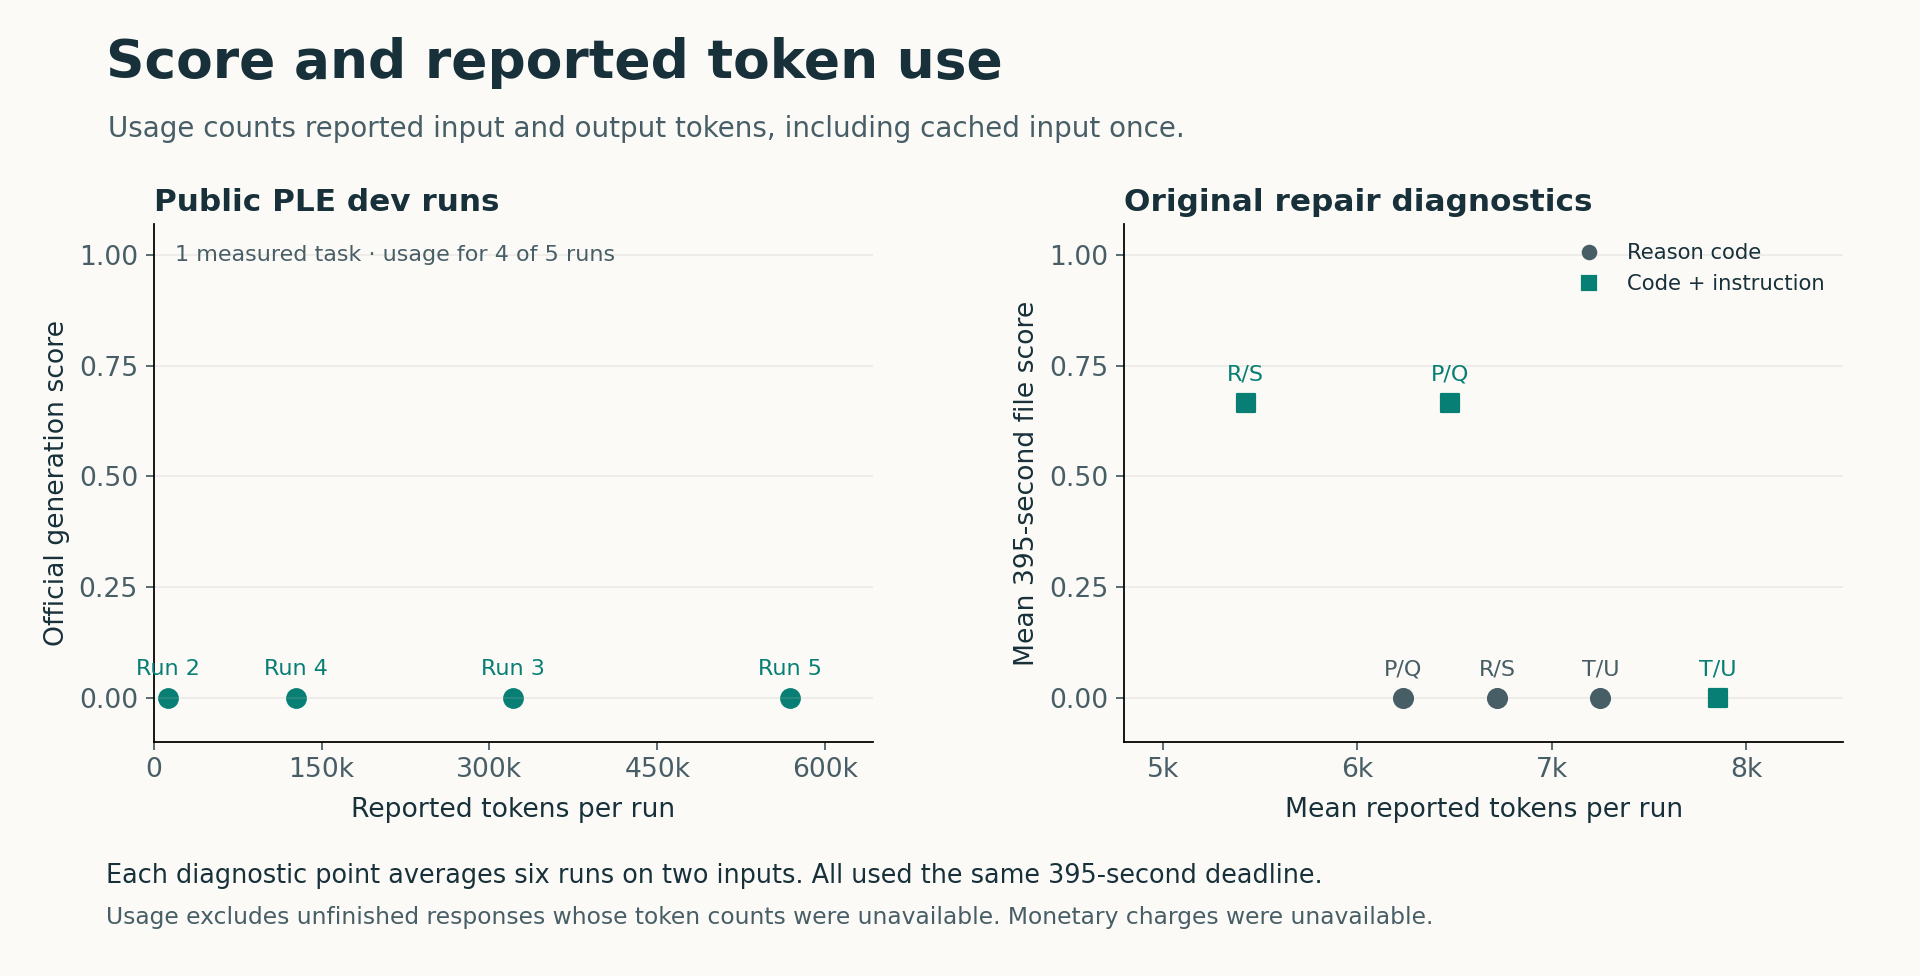
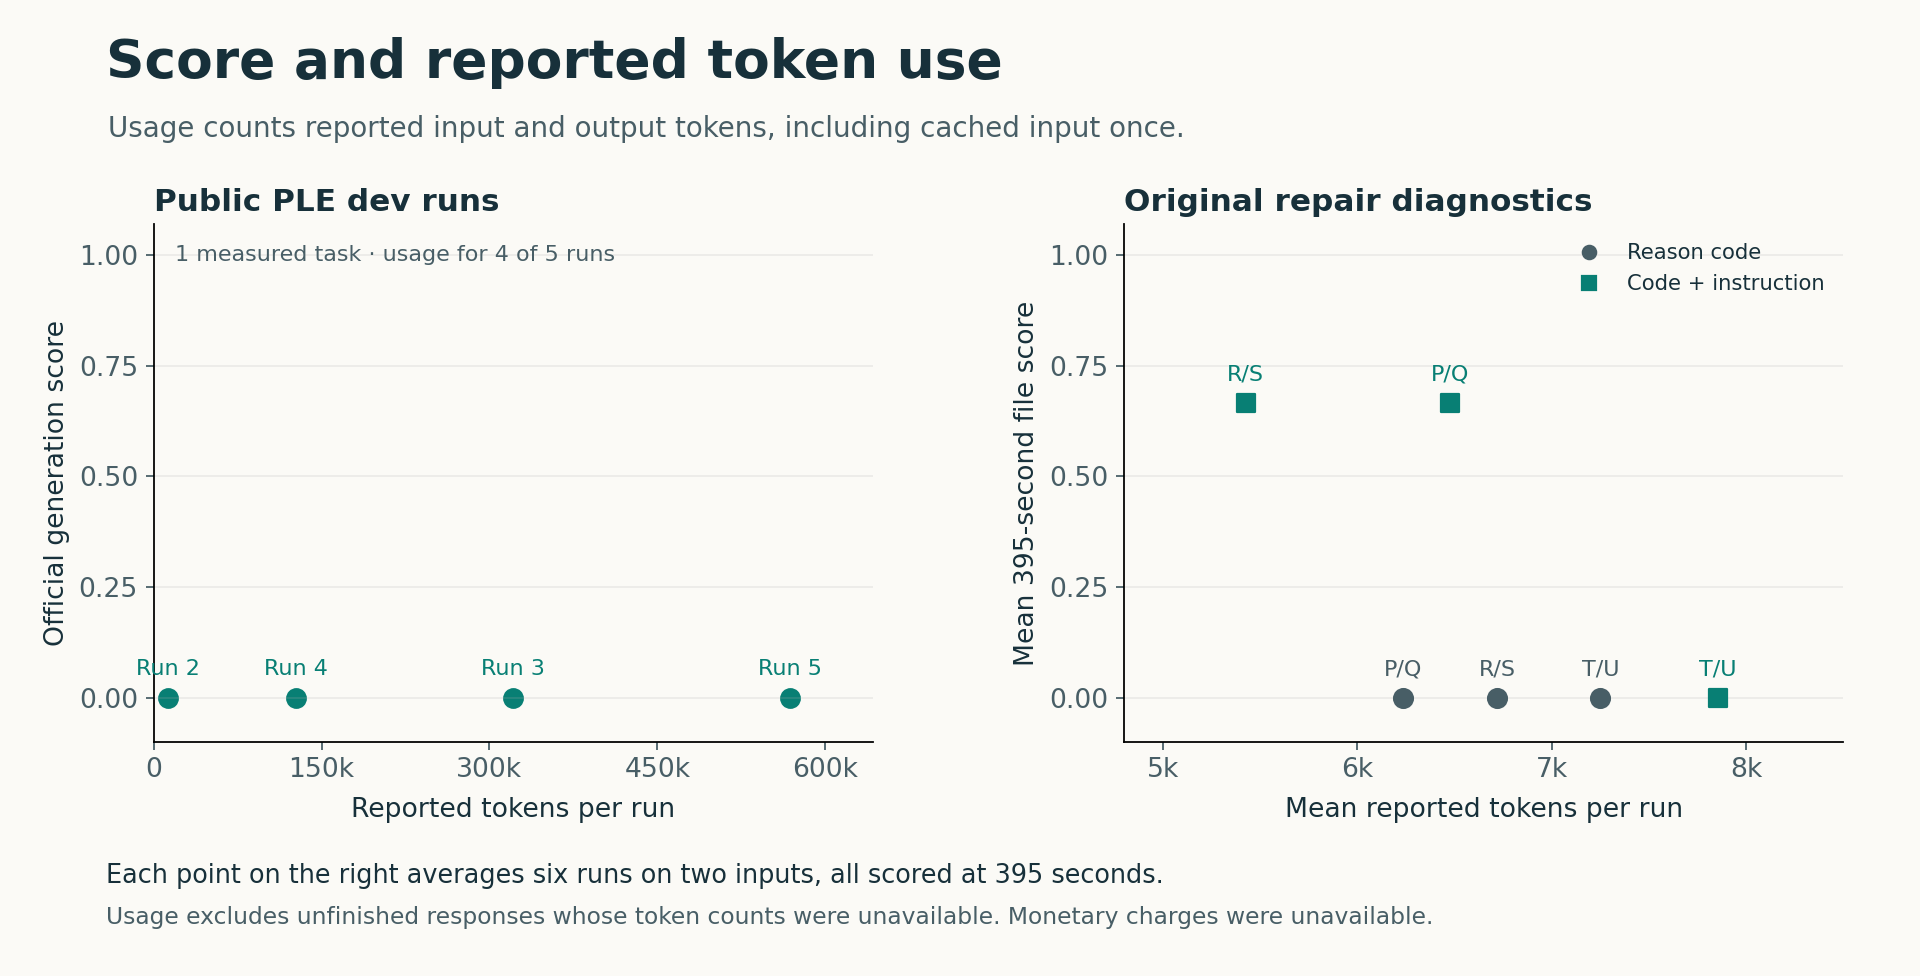
Clarify the diagnostic deadline and 29-task coverage axis [skip ci]

Changed region(s): [[0.0938, 0.8607, 0.6875, 0.9221]]

diff --git a/writeups/kaggle/make_figures.py b/writeups/kaggle/make_figures.py
@@ -130,7 +130,7 @@ def score_vs_cost(out, observations, records):
     b.set_xticks([5000, 6000, 7000, 8000])
     handles = [Line2D([], [], color=c, marker=m, linestyle="none", label=l) for l,c,m in zip(ARMS,(MUTED,TEAL),("o","s"))]
     b.legend(handles=handles, frameon=False, loc="upper right", fontsize=9.5)
-    fig.text(.055, .095, "Each diagnostic point averages six runs on two inputs. All used the same 395-second deadline.", size=11.5)
+    fig.text(.055, .095, "Each point on the right averages six runs on two inputs, all scored at 395 seconds.", size=11.5)
     fig.text(.055, .053, "Usage excludes unfinished responses whose token counts were unavailable. Monetary charges were unavailable.", size=10.5, color=MUTED)
     fig.savefig(out / "score-vs-cost.png", dpi=160)
     plt.close(fig)
@@ -174,7 +174,8 @@ def outcomes(out, data):
         ax.text(counted[key]+.45, j, f"{counted[key]} / {n}", va="center", size=13, weight="bold")
     ax.set(yticks=range(len(ordered)), yticklabels=ordered, xlim=(0, n+2.5), xlabel="Number of distinct public tasks")
     ax.invert_yaxis()
-    ax.xaxis.set_major_locator(MaxNLocator(nbins=6,integer=True))
+    ticks = MaxNLocator(nbins=5, integer=True).tick_values(0, n)
+    ax.set_xticks([tick for tick in ticks if 0 <= tick < n] + [n])
     ax.spines[["top","left","right"]].set_visible(False)
     ax.tick_params(axis="y", length=0, pad=8)
     ax.grid(axis="x", alpha=.13)
